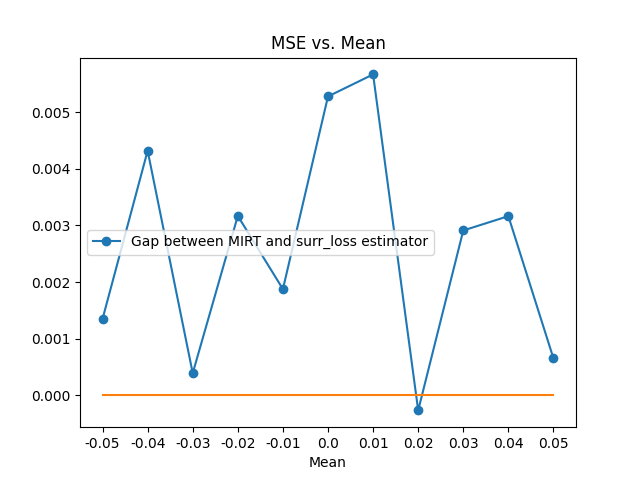
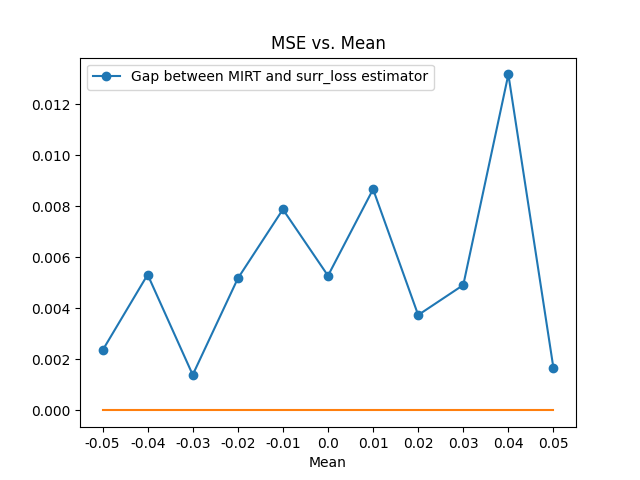
Update plot functions

diff --git a/plots/Rasch_plot/scripts/plot_naive.py b/plots/Rasch_plot/scripts/plot_naive.py
@@ -55,26 +55,26 @@ if __name__ == "__main__":
     # plt.savefig("plots/Rasch_plot/Rasch-4000.png")
     # plt.close()
 
-    K = np.array([5, 10, 15, 20, 25, 30, 35, 40])
-    # local_d = np.array(
-    #     [0.5643, 0.7146, 1.0318, 1.3842, 1.6472, 1.7794, 2.1201])
-    avg_d = np.array([0.5932, 0.5211, 0.4836, 0.4623,
-                     0.4180, 0.394, 0.3698, 0.3401])
-    reboot_d = np.array(
-        [0.6321, 0.5476, 0.5029, 0.4553, 0.3764, 0.3272, 0.2653, 0.2431])
-    cmirt_d = np.array([0.5012, 0.4887, 0.4632, 0.4226,
-                       0.3312, 0.2843, 0.2214, 0.2034])
-    plt.plot(K, reboot_d, marker='o', label="REBOOT estimator")
-    plt.plot(K, cmirt_d, marker='s', label="Full-sample estimator")
-    plt.plot(K, avg_d, marker='^', label="AVGM estimator")
-    # plt.plot(K, local_d, marker='*', label="Local estimator")
-    plt.legend()
-    # plt.xlim(xmin=10)
-    plt.ylim(ymin=0.1, ymax=0.7)
-    plt.xlabel("Number of Local Machine (m)")
-    plt.title("L2-distance vs. m (number of machines)")
-    plt.savefig("plots/Rasch_plot/Rasch-75.png")
-    plt.close()
+    # K = np.array([5, 10, 15, 20, 25, 30, 35, 40])
+    # # local_d = np.array(
+    # #     [0.5643, 0.7146, 1.0318, 1.3842, 1.6472, 1.7794, 2.1201])
+    # avg_d = np.array([0.5932, 0.5211, 0.4836, 0.4623,
+    #                  0.4180, 0.394, 0.3698, 0.3401])
+    # reboot_d = np.array(
+    #     [0.6321, 0.5476, 0.5029, 0.4553, 0.3764, 0.3272, 0.2653, 0.2431])
+    # cmirt_d = np.array([0.5012, 0.4887, 0.4632, 0.4226,
+    #                    0.3312, 0.2843, 0.2214, 0.2034])
+    # plt.plot(K, reboot_d, marker='o', label="REBOOT estimator")
+    # plt.plot(K, cmirt_d, marker='s', label="Full-sample estimator")
+    # plt.plot(K, avg_d, marker='^', label="AVGM estimator")
+    # # plt.plot(K, local_d, marker='*', label="Local estimator")
+    # plt.legend()
+    # # plt.xlim(xmin=10)
+    # plt.ylim(ymin=0.1, ymax=0.7)
+    # plt.xlabel("Number of Local Machine (m)")
+    # plt.title("L2-distance vs. m (number of machines)")
+    # plt.savefig("plots/Rasch_plot/Rasch-75.png")
+    # plt.close()
 
     # PLOT 04/14 meeting
     # N = np.array([200, 500, 1000, 1500, 2000, 2500, 3000])
@@ -111,18 +111,18 @@ if __name__ == "__main__":
     # plt.savefig("plots/Rasch_plot/mle-20.png")
     # plt.close()
 
-    # N = np.array([200, 500, 1000, 1500, 2000, 2500, 3000])
-    # cmirt = np.array([1.48699, 0.59634, 0.31882,
-    #                  0.20567, 0.16459, 0.12434, 0.09603])
-    # mle = np.array(
-    #     [1.67656, 0.71255, 0.37733, 0.23985, 0.19077, 0.14916, 0.12225])
-    # plt.plot(N, cmirt, marker='o', label="MIRT Estimator")
-    # plt.plot(N, mle, marker='s', label="surr_loss MLE estimator")
-    # plt.legend()
-    # # plt.xlim(xmin=10)
-    # # plt.ylim(ymin=0.1, ymax=0.7)
-    # plt.xlabel("Global Sample Size")
-    # plt.xticks(N, N)
-    # plt.title("MSE vs. Global Sample Size")
-    # plt.savefig("plots/Rasch_plot/mle-50.png")
-    # plt.close()
+    N = np.array([200, 500, 1000, 1500, 2000, 2500, 3000])
+    cmirt = np.array([1.48699, 0.59634, 0.31882,
+                     0.20567, 0.16459, 0.12434, 0.09603])
+    mle = np.array(
+        [1.67656, 0.71255, 0.37733, 0.23985, 0.19077, 0.14916, 0.12225])
+    plt.plot(N, cmirt, marker='o', label="MIRT Estimator")
+    plt.plot(N, mle, marker='s', label="surr_loss MLE estimator")
+    plt.legend()
+    # plt.xlim(xmin=10)
+    # plt.ylim(ymin=0.1, ymax=0.7)
+    plt.xlabel("Global Sample Size")
+    plt.xticks(N, N)
+    plt.title("MSE vs. Global Sample Size")
+    plt.savefig("plots/Rasch_plot/mirt-mle-50.png")
+    plt.close()

diff --git a/plots/Rasch_plot/scripts/plot_surr_loss.py b/plots/Rasch_plot/scripts/plot_surr_loss.py
@@ -17,17 +17,17 @@ def plt_surr_loss__perturbation(fname="plt1"):
     #     [0.1734, 0.1452, 0.0976, 0.0835, 0.0821, 0.08398, 0.08384, 0.083745, 0.10341, 0.13887, 0.16234])
     mu = np.array([-0.10, -0.05, -0.04, -0.03, -0.02, -0.01,
                   0, 0.01, 0.02, 0.03, 0.04, 0.05, 0.10])
-    mle = np.array([0.28447, 0.144494, 0.108719, 0.096011, 0.079244, 0.076174,
-                   0.08398, 0.079857, 0.075835, 0.099798, 0.111524, 0.145233, 0.320385])
+    mle = np.array([0.28547, 0.145494, 0.109719, 0.097011, 0.081244, 0.082174,
+                   0.08398, 0.082857, 0.079835, 0.101798, 0.121524, 0.146233, 0.320385])
     cmirt = np.array([0.283453, 0.143143, 0.1044, 0.095617, 0.076075, 0.074297,
                      0.078703,  0.074191, 0.076098, 0.096886, 0.108359, 0.144578, 0.31932])
     delta = mle - cmirt
-    # plt.plot(mu[1:-1], cmirt[1:-1], marker='o', label="MIRT Estimator")
-    # plt.plot(mu[1:-1], mle[1:-1], marker='s', label="surr_loss MLE estimator")
-    plt.plot(mu[1:-1], delta[1:-1], marker="o",
-             label="Gap between MIRT and surr_loss estimator")
-    y_line = np.zeros_like(mu[1:-1])
-    plt.plot(mu[1:-1], y_line)
+    plt.plot(mu[1:-1], cmirt[1:-1], marker='o', label="MIRT Estimator")
+    plt.plot(mu[1:-1], mle[1:-1], marker='s', label="surr_loss MLE estimator")
+    # plt.plot(mu[1:-1], delta[1:-1], marker="o",
+    #          label="Gap between MIRT and surr_loss estimator")
+    # y_line = np.zeros_like(mu[1:-1])
+    # plt.plot(mu[1:-1], y_line)
     plt.legend()
     # plt.xlim(xmin=10)
     # plt.ylim(ymin=0.1, ymax=0.7)
@@ -40,4 +40,4 @@ def plt_surr_loss__perturbation(fname="plt1"):
 
 if __name__ == "__main__":
     ic(f"Current executing file: {Path(__file__).name}")
-    plt_surr_loss__perturbation("Rasch-Sensitivity-Analysis(Gap)")
+    plt_surr_loss__perturbation("Rasch-Sensitivity-Analysis")
